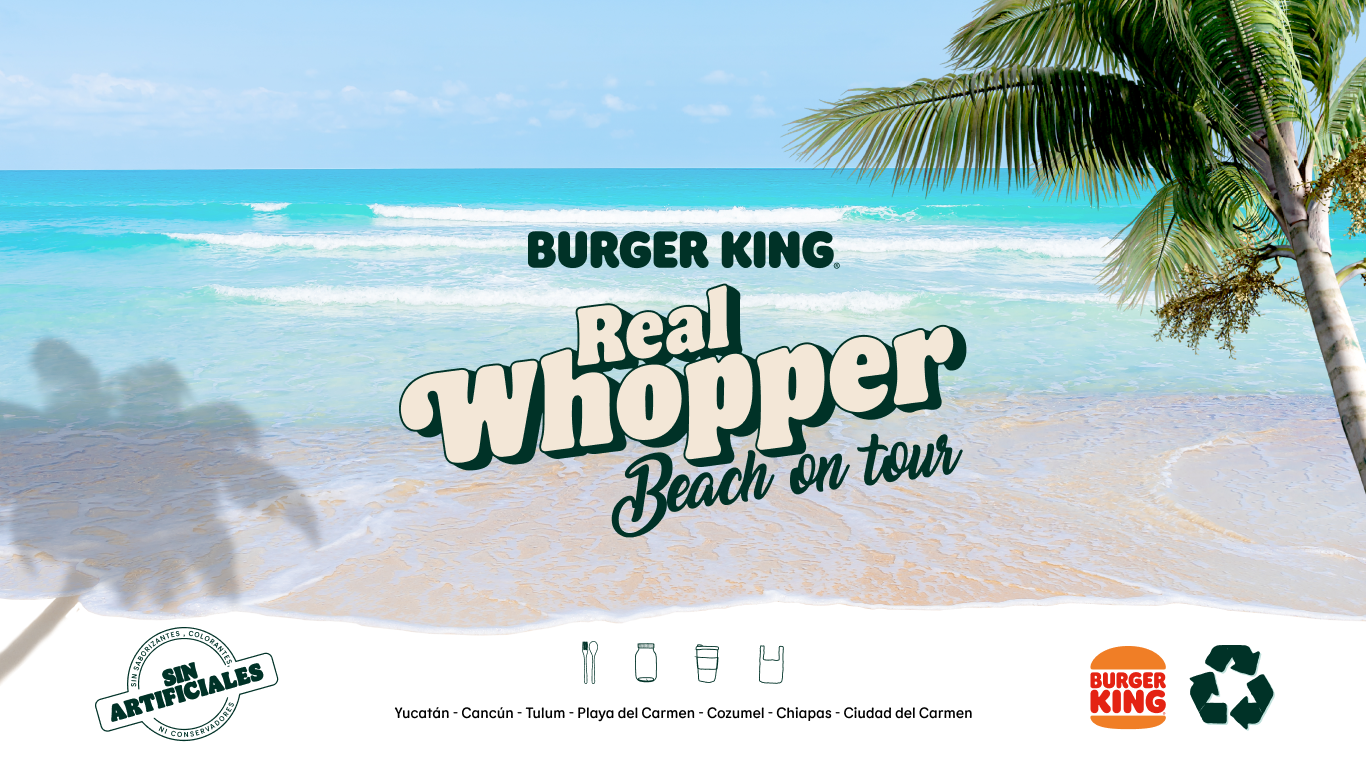
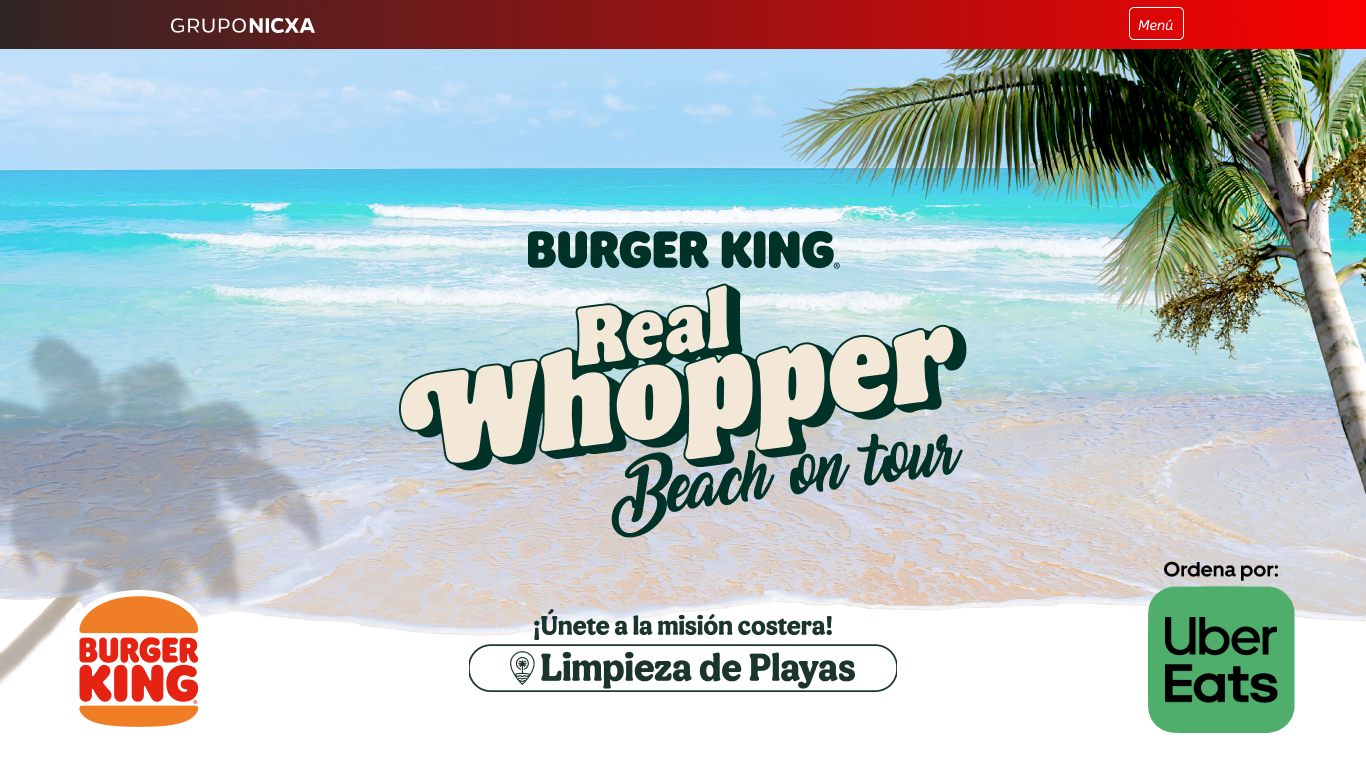
cambios whopper beach tour

diff --git a/public/css/beach-on.css b/public/css/beach-on.css
@@ -1,5 +1,18 @@
+@font-face {
+    font-family: 'Flame-bold';
+    src: url(/font/flame-bold.ttf);
+}
+@font-face {
+    font-family: 'Flame-regular';
+    src: url(/font/flame-regular.ttf);
+}
 
-
+.font-flame {
+    font-family: 'Flame-bold';
+}
+.font-flame-regular {
+    font-family: 'Flame-regular';
+}
 .cupones-beach {
     padding: 2em 3em 0 3em;
 } @media (max-width:1000px) {
@@ -9,8 +22,8 @@
     .cupones-beach .cup{
         padding: 0;
     }
-    
 }
+
 .descubre-mas {
     padding-top: 6em;
     padding-bottom: 6em;
@@ -63,6 +76,10 @@
     }
 }
 
+.pasos-recoleccion {
+    padding-top: 4em;
+    padding-bottom: 3em;
+}
 .conciencia .titular {
     padding-bottom: 2em;
 }
@@ -70,7 +87,16 @@
     background-color: #003227;
     color: #F2E2D1;
 }
-
+.fondo-verde {
+    margin-top: 4em;
+    background-color: #003227;
+    min-height: 300px;
+    color: #F2E2D1;
+    padding-bottom: 3em;
+}
+.fondo-verde h2 {
+    color: #F2E2D1;
+}
 .sets-real-whopper {
     background-image: url(/img/beach/onda-2.png);
     background-size: cover;
@@ -105,4 +131,4 @@
 .aliados {
     padding-top: 5em;
     padding-bottom: 5em;
-} 
+}

diff --git a/resources/views/beachontour-landing.blade.php b/resources/views/beachontour-landing.blade.php
@@ -27,14 +27,11 @@
                         Conciencia <br> Medioambiental
                     </h1>
                     <p class="text-justify">
-                        En Burger King®, este verano nos enfocamos en generar <b>conciencia medioambiental</b> con nuestra campaña
-                        "Real Whopper® Beach on Tour". Promovemos comida real para gente real, eliminando saborizantes,
-                        colorantes y conservadores.
+                        Este verano, en Burger King®, continuamos con nuestro compromiso de generar <span class="font-flame-regular">conciencia medioambiental</span> a través de nuestra campaña "Real Whopper® Beach on Tour".
                         <br><br>
-                        En <b>2023</b>, queremos que nuestras playas sean como nuestras Whopper®: sin artificiales. Es por ello que
-                        en <b>Playa Puerto Progreso</b>, hemos establecido <b>puntos de recolección fijos</b>, invitando a todos los
-                        yucatecos y turistas a unirse a nosotros en la tarea de conservar nuestros espacios recreativos y
-                        mantener nuestras playas limpias.
+                        En <b class="font-flame-regular">2024</b>, queremos que nuestras playas sean como nuestras Whopper®: <span class="font-flame-regular">sin artificiales</span>. Por ello, regresamos a las playas del sureste mexicano con limpiezas colectivas y actividades para involucrar a la comunidad en la conservación de nuestros espacios recreativos.
+                        <br><br>
+                        Únete a nosotros en esta <span class="font-flame-regular">segunda edición</span> y contribuye a mantener nuestras playas limpias. Juntos podemos hacer una gran diferencia, porque en Burger King® creemos que el verdadero sabor viene de lo natural y lo auténtico, tanto en nuestra comida como en nuestro entorno.
                     </p>
 
                 </div>
@@ -42,62 +39,107 @@
                     <video src="{{asset('/video/limpieza-whopper.mp4')}}" width="100%" autoplay preload="metadata" loop muted controls></video>
                 </div>
             </div>
-            <div class="text-center pasos">
-                <div class="titular">
-                    <h2 class="font-flame" style="color:#003227;">PASOS PARA LA RECOLECCIÓN</h2>
-                <p>Contribuye a mantener nuestras playas limpias y proteger el medio ambiente <br class="d-none d-sm-none d-md-block d-lg-block"> con estos simples pasos de recolección.</p>
-                </div>
-                <div class="d-none d-sm-none d-md-block d-lg-block">
-                    <img src="{{asset('img/beach/banner/playas.png')}}" class="img-fluid">
-                   </div>
-                   <div class="d-block d-sm-block d-md-none d-lg-none">
-                    <div class="p-0">
-                        <img src="{{asset('img/beach/banner/playa-m.png')}}" class="img-fluid" alt="">
-                    </div>
-                   </div>
-               
-                <div class="text-center mt-5 mb-5">
-                    <img src="{{asset('img/beach/fecha.png')}}" class="img-fluid" alt="">
-                </div>
+        </div>
+    </div>
+    <div class="fondo-verde">
+        <div class="container">
+            <div class="text-center pt-5">
+                <h2>En nuestra 1era edición en 2023 logramos:</h2>
+            </div>
+            <div class="pt-5">
                 <div class="row">
-                    <div class="col-lg-4 col-md-12 col-sm-12 pt-4">
-                        <div class="row">
-                            <div class="col-4 ">
-                                <img src="{{asset('img/beach/banner/1.svg')}}" class="100" alt="">
-                            </div>
-                            <div class="col-8 text-left">
-                                <h4 class="font-flame" style="color:#003227;">LIMPIA</h4>
-                                <small>Recolecta todos los elementos artificiales que encuentres contaminando <b>la playa y sus alrededores.</b></small>
-                            </div>
+                    <div class="col-lg-3 col-md-6 col-12 text-center">
+                        <img src="{{asset('img/beach/banner/Vector-1.svg')}}" width="100" alt="">
+                        <h3 class="font-flame pt-3">+200</h3>
+                        <p class="font-flame-regular">Participantes</p>
+                    </div>
+                    <div class="col-lg-3 col-md-6 col-12 text-center">
+                        <img src="{{asset('img/beach/banner/Vector-2.svg')}}" width="116" alt="">
+                        <h3 class="font-flame pt-3">+300</h3>
+                        <p class="font-flame-regular">Participantes</p>
+                    </div>
+                    <div class="col-lg-3 col-md-6 col-12 text-center">
+                        <img src="{{asset('img/beach/banner/Vector-3.svg')}}" width="116" alt="">
+                        <h3 class="font-flame pt-3">+140</h3>
+                        <p class="font-flame-regular">Participantes</p>
+                    </div>
+                    <div class="col-lg-3 col-md-6 col-12 text-center">
+                        <img src="{{asset('img/beach/banner/Vector-4.svg')}}" width="137" alt="">
+                        <h3 class="font-flame pt-3">+1 Tonelada</h3>
+                        <p class="font-flame-regular">Participantes</p>
+                    </div>
+                </div>
+            </div>
+        </div>
+    </div>
+   <div class="pasos-recoleccion">
+    <div class="container-fluid">
+        <div class="text-center pasos">
+            <div class="titular pb-4">
+                <h2 class="font-flame" style="color:#003227;">PASOS PARA LA RECOLECCIÓN</h2>
+            <p>Contribuye a mantener nuestras playas limpias y proteger el medio ambiente <br class="d-none d-sm-none d-md-block d-lg-block"> con estos simples pasos de recolección.</p>
+            </div>
+            <div class="d-none d-sm-none d-md-block d-lg-block">
+                <img src="{{asset('img/beach/banner/playas.png')}}" class="img-fluid">
+               </div>
+               <div class="d-block d-sm-block d-md-none d-lg-none">
+                <div class="p-0">
+                    <img src="{{asset('img/beach/banner/playa-m.png')}}" class="img-fluid" alt="">
+                </div>
+               </div>
+
+            <div class="text-center mt-5 mb-5">
+                <img src="{{asset('img/beach/fecha.png')}}" class="img-fluid" alt="">
+            </div>
+            <div class="row">
+                <div class="col-lg-3 col-md-12 col-sm-12 pt-4">
+                    <div class="row">
+                        <div class="col-4 ">
+                            <img src="{{asset('img/beach/banner/1.svg')}}" class="100" alt="">
+                        </div>
+                        <div class="col-8 text-left">
+                            <h4 class="font-flame" style="color:#003227;">LIMPIA</h4>
+                            <small>Recolecta todos los elementos artificiales que encuentres contaminando <b>la playa y sus alrededores.</b></small>
                         </div>
                     </div>
-                    <div class="col-lg-4 col-md-12 col-sm-12 pt-4">
-                        <div class="row">
-                            <div class="col-4 ">
-                                <img src="{{asset('img/beach/banner/2.svg')}}" class="100" alt="">
-                            </div>
-                            <div class="col-8 text-left">
-                                <h4 class="font-flame" style="color:#003227;">DEPOSITA</h4>
-                                <small>Coloca tu bolsa de desperdicios en cualquiera de nuestros <b>puntos de recolección.</b></small>
-                            </div>
+                </div>
+                <div class="col-lg-3 col-md-12 col-sm-12 pt-4">
+                    <div class="row">
+                        <div class="col-4 ">
+                            <img src="{{asset('img/beach/banner/2.svg')}}" class="100" alt="">
+                        </div>
+                        <div class="col-8 text-left">
+                            <h4 class="font-flame" style="color:#003227;">DEPOSITA</h4>
+                            <small>Coloca tu bolsa de desperdicios en cualquiera de nuestros <b>puntos de recolección.</b></small>
                         </div>
                     </div>
-                    <div class="col-lg-4 col-md-12 col-sm-12 pt-4">
-                        <div class="row">
-                            <div class="col-4 ">
-                                <img src="{{asset('img/beach/banner/3.svg')}}" class="img-fluid" alt="">
-                            </div>
-                            <div class="col-8 text-left">
-                                <h4 class="font-flame" style="color:#003227;">GANA</h4>
-                                <small>Escanea el código QR que encontrarás en los puntos de recolección y <b>canjea en cualquiera de nuestras sucursales de Burger King® de Grupo Nicxa®.</b></small>
-                            </div>
+                </div>
+                <div class="col-lg-3 col-md-12 col-sm-12 pt-4">
+                    <div class="row">
+                        <div class="col-4 ">
+                            <img src="{{asset('img/beach/banner/3.svg')}}" class="img-fluid" alt="">
+                        </div>
+                        <div class="col-8 text-left">
+                            <h4 class="font-flame" style="color:#003227;">GANA</h4>
+                            <small>Escanea el código QR que encontrarás en los puntos de recolección y <b>canjea en cualquiera de nuestras sucursales de Burger King® de Grupo Nicxa®.</b></small>
+                        </div>
+                    </div>
+                </div>
+                <div class="col-lg-3 col-md-12 col-sm-12 pt-4">
+                    <div class="row">
+                        <div class="col-4 ">
+                            <img src="{{asset('img/beach/banner/4.svg')}}" class="100" alt="">
+                        </div>
+                        <div class="col-8 text-left">
+                            <h4 class="font-flame" style="color:#003227;">LIMPIA</h4>
+                            <small>Recolecta todos los elementos artificiales que encuentres contaminando <b>la playa y sus alrededores.</b></small>
                         </div>
                     </div>
                 </div>
             </div>
-
         </div>
     </div>
+   </div>
    <div>
    </div>
    </div>
@@ -170,7 +212,7 @@
                         </h2>
                     </div>
                     <div class="row text-center">
-                        
+
                         <div class="col-lg-4 col-md-12 col-sm-12">
                             <a href="https://www.facebook.com/gruponicxa" target="blank_">
                                 <img src="{{ asset('img/beach/redes/fb.png') }}" class="img-fluid" alt="logo facebook">

diff --git a/routes/web.php b/routes/web.php
@@ -287,7 +287,7 @@ Route::get('/kfc-malecon', function (Request $request) {
 });
 
 //Rutas PH
-Route::get('/ph-oriente', function (Request $request) {
+Route::get('/ph-oriente', function (Request $request) { 
     $view = View::where('ip', $request->ip())->where('session_id', $request->session()->getId())->where('url',$request->fullUrl())->first();
     if (!$view) {
         View::create([
@@ -327,9 +327,9 @@ Route::get('/moms-get-in-shape', function () {
 //Route::get('/beach-on-tour-cupones-geo', function () {
 //    return view('sucursales.beach-cupones-geo');
 // });
-// Route::get('/beach-on-tour', function () {
-//     return view('beachontour-landing');
-// });
+Route::get('/beach-on-tour', function () {
+    return view('beachontour-landing');
+});
 // Route::get('/beach-on-tour-geo', function () {
     return view('sucursales.beach-landing-geo');
 // });
@@ -337,5 +337,5 @@ Route::get('/moms-get-in-shape', function () {
 // Ruta navidad
 // Route::get('/buzon-de-santa', function () {
 //
- return view('buzons');
+// return view('buzons');
 // });
